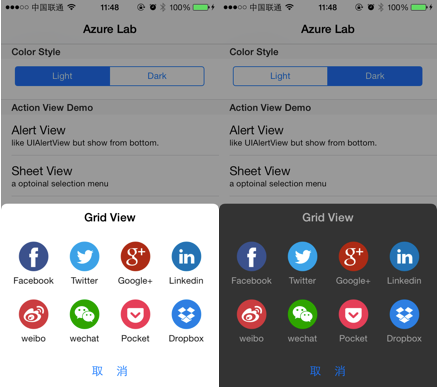
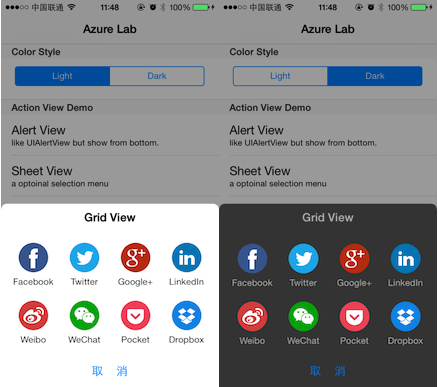
Update example

diff --git a/SGActionViewDemo/ViewController.m b/SGActionViewDemo/ViewController.m
@@ -51,14 +51,14 @@
                               selectedHandle:nil];
         }else if (indexPath.row == 1){
             [SGActionView showSheetWithTitle:@"Sheet View"
-                                  itemTitles:@[ @"Wedding Bell", @"I'm Yours", @"When I was your mam" ]
+                                  itemTitles:@[ @"Wedding Bell", @"I'm Yours", @"When I Was Your Man" ]
                                itemSubTitles:@[ @"Depapepe - Let's go!!!", @"Jason Mraz", @"Bruno Mars" ]
                                selectedIndex:0
                               selectedHandle:nil];
         }else if (indexPath.row == 2){
             [SGActionView showGridMenuWithTitle:@"Grid View"
                                      itemTitles:@[ @"Facebook", @"Twitter", @"Google+", @"Linkedin",
-                                                   @"weibo", @"wechat", @"Pocket", @"Dropbox" ]
+                                                   @"Weibo", @"WeChat", @"Pocket", @"Dropbox" ]
                                          images:@[ [UIImage imageNamed:@"facebook"],
                                                    [UIImage imageNamed:@"twitter"],
                                                    [UIImage imageNamed:@"googleplus"],

diff --git a/README.md b/README.md
@@ -6,11 +6,11 @@ SGActionView
 SGActionView提供三种弹出视图:  
 
 * SGAlertMenu，类似于UIAlertView的提示框。    
-![alert](https://raw.github.com/sagiwei/SGActionView/master/alert.png)
+![alert](alert.png)
 * SGGridMenu，多用于选择服务、分享等操作，类似UIActivityViewController的功能  
-![grid](https://raw.github.com/sagiwei/SGActionView/master/grid.png)
+![grid](grid.png)
 * SGSheetMenu，一个选项列表，可以设置默认值。    
-![sheet](https://raw.github.com/sagiwei/SGActionView/master/sheet.png)
+![sheet](sheet.png)
 
 ##使用
 
@@ -26,7 +26,7 @@ SGActionView提供三种弹出视图:
 选项列表：  
 	
 	[SGActionView showSheetWithTitle:@"Sheet View"
-	                	   itemTitles:@[ @"Wedding Bell", @"I'm Yours", @"When I was your mam" ]
+	                	   itemTitles:@[ @"Wedding Bell", @"I'm Yours", @"When I Was Your Man" ]
 	                   itemSubTitles:@[ @"Depapepe - Let's go!!!", @"Jason Mraz", @"Bruno Mars" ]
 	                   selectedIndex:0
 	                  selectedHandle:nil];
@@ -35,7 +35,7 @@ SGActionView提供三种弹出视图:
 	
 	[SGActionView showGridMenuWithTitle:@"Grid View"
 	                         itemTitles:@[ @"Facebook", @"Twitter", @"Google+", @"Linkedin",
-	                                       @"weibo", @"wechat", @"Pocket", @"Dropbox" ]
+	                                       @"Weibo", @"WeChat", @"Pocket", @"Dropbox" ]
 	                             images:@[ [UIImage imageNamed:@"facebook"],
 	                                       [UIImage imageNamed:@"twitter"],
 	                                       [UIImage imageNamed:@"googleplus"],
